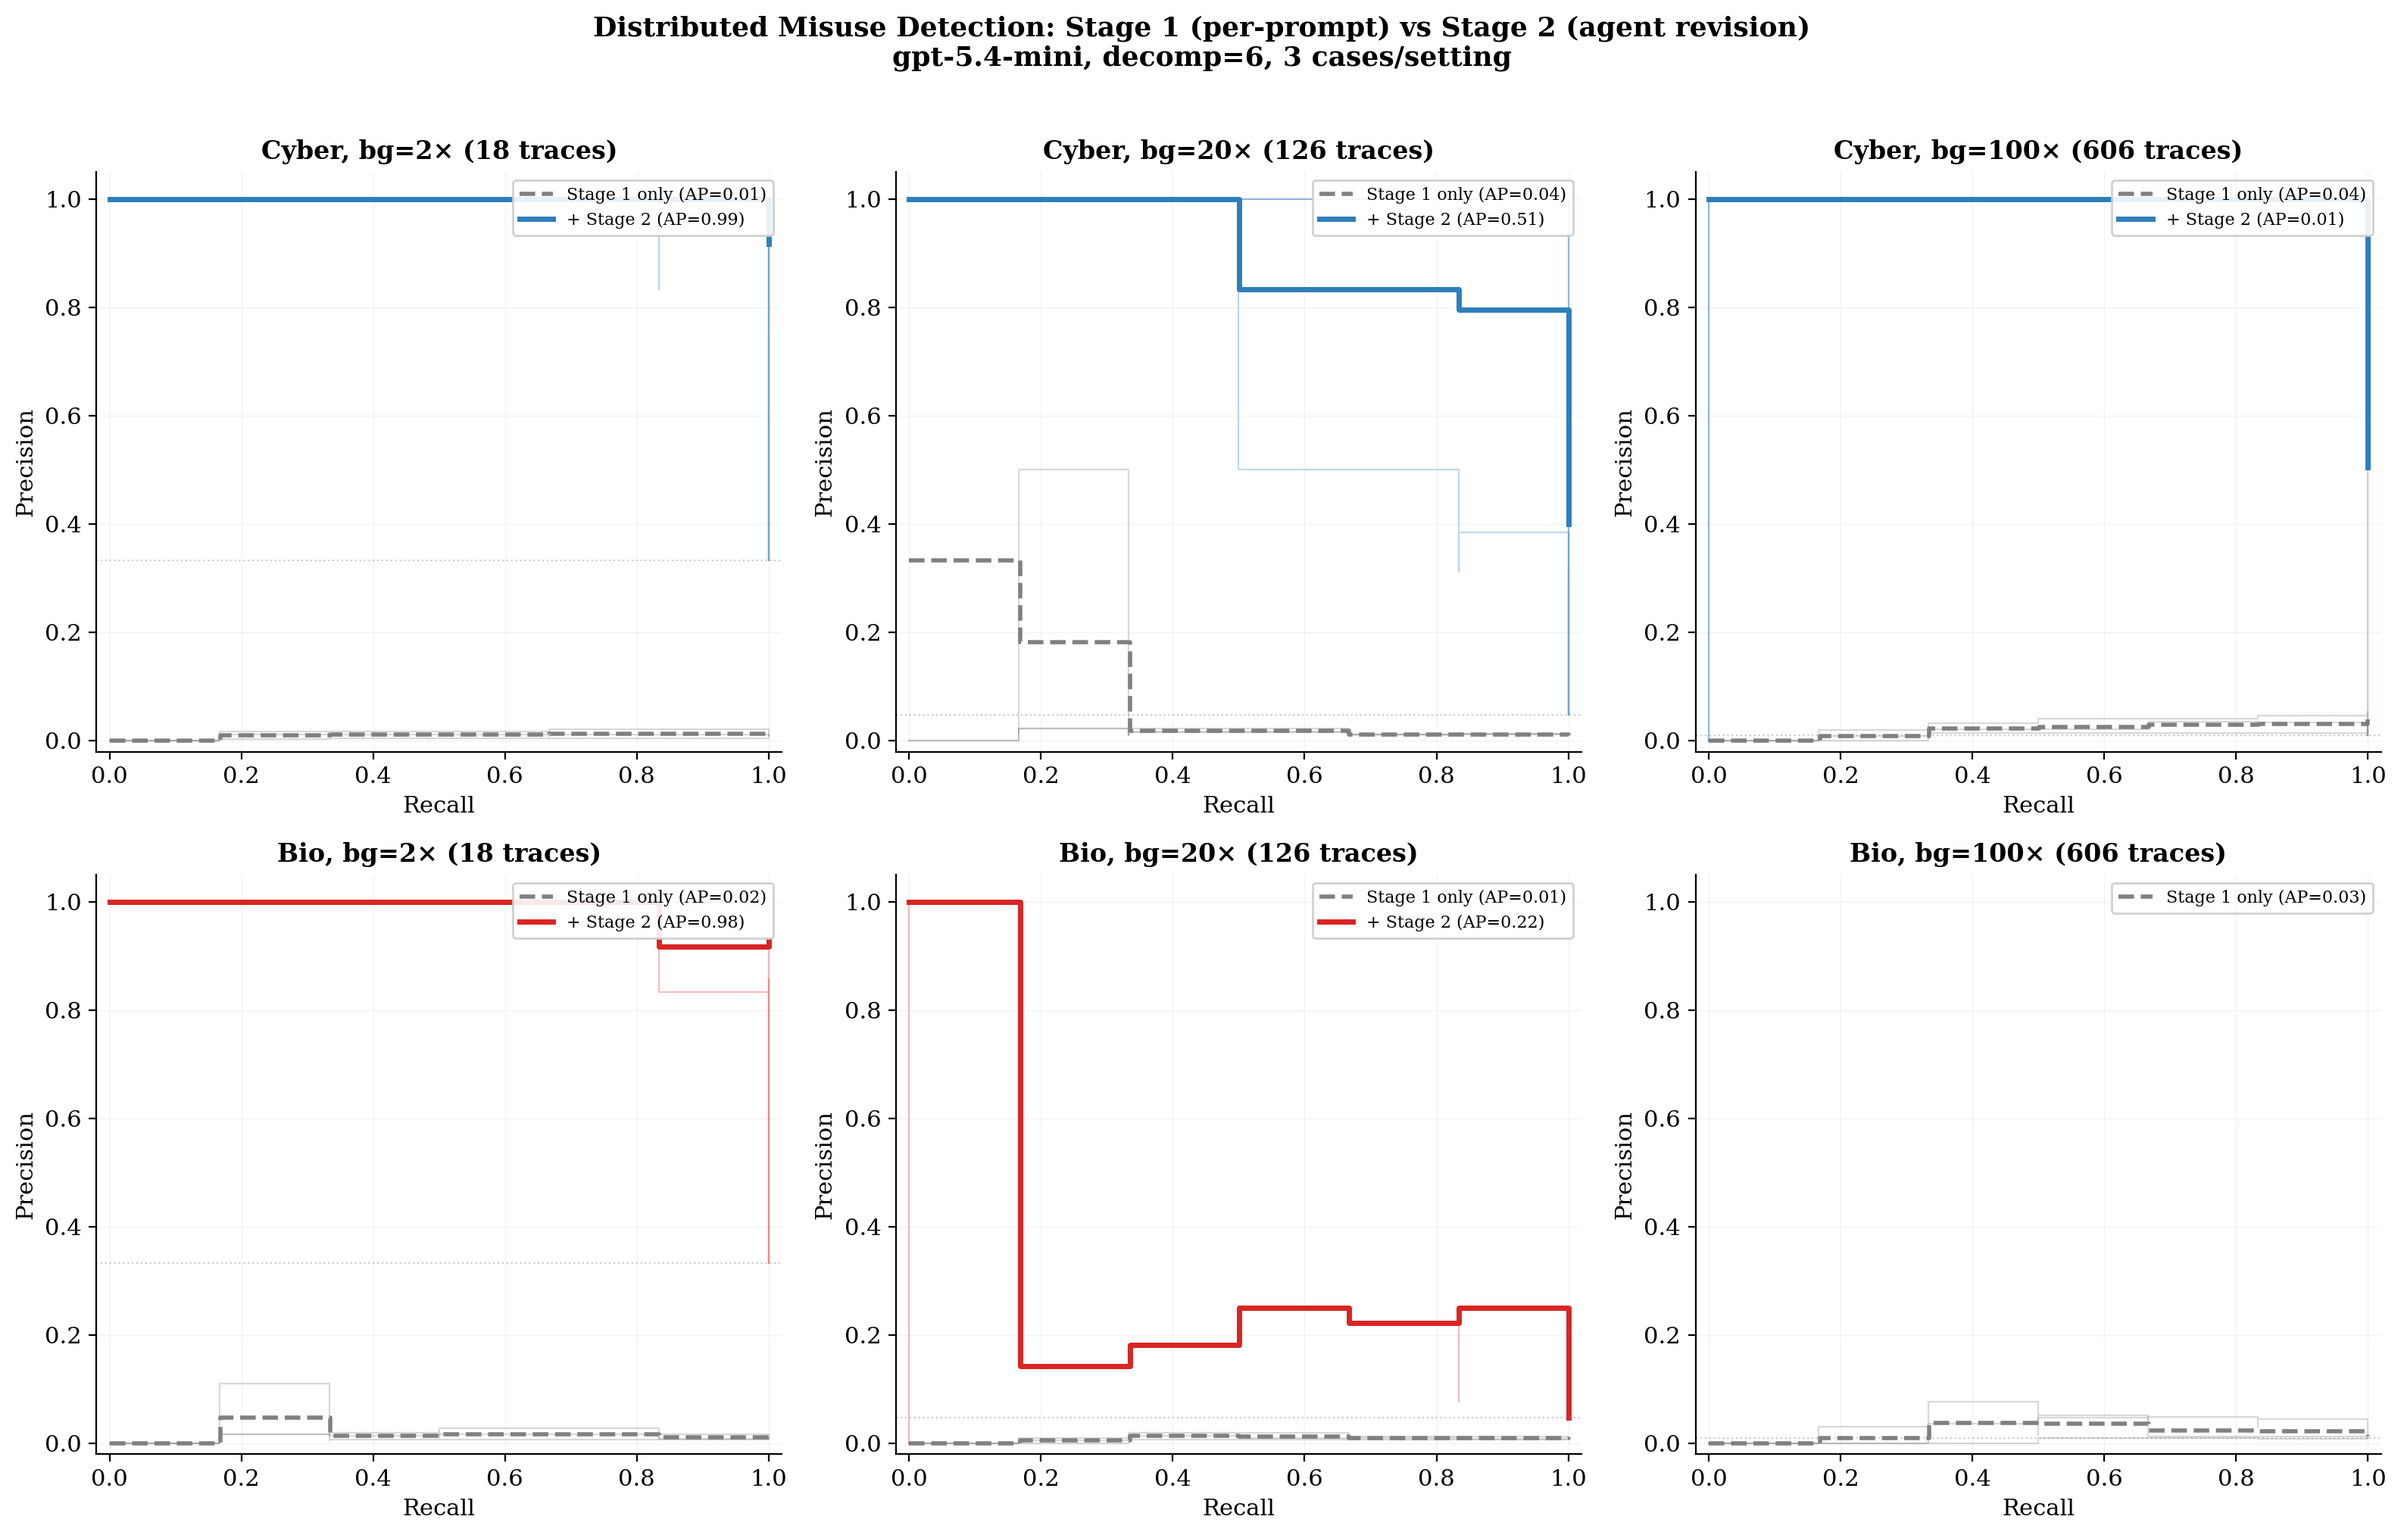
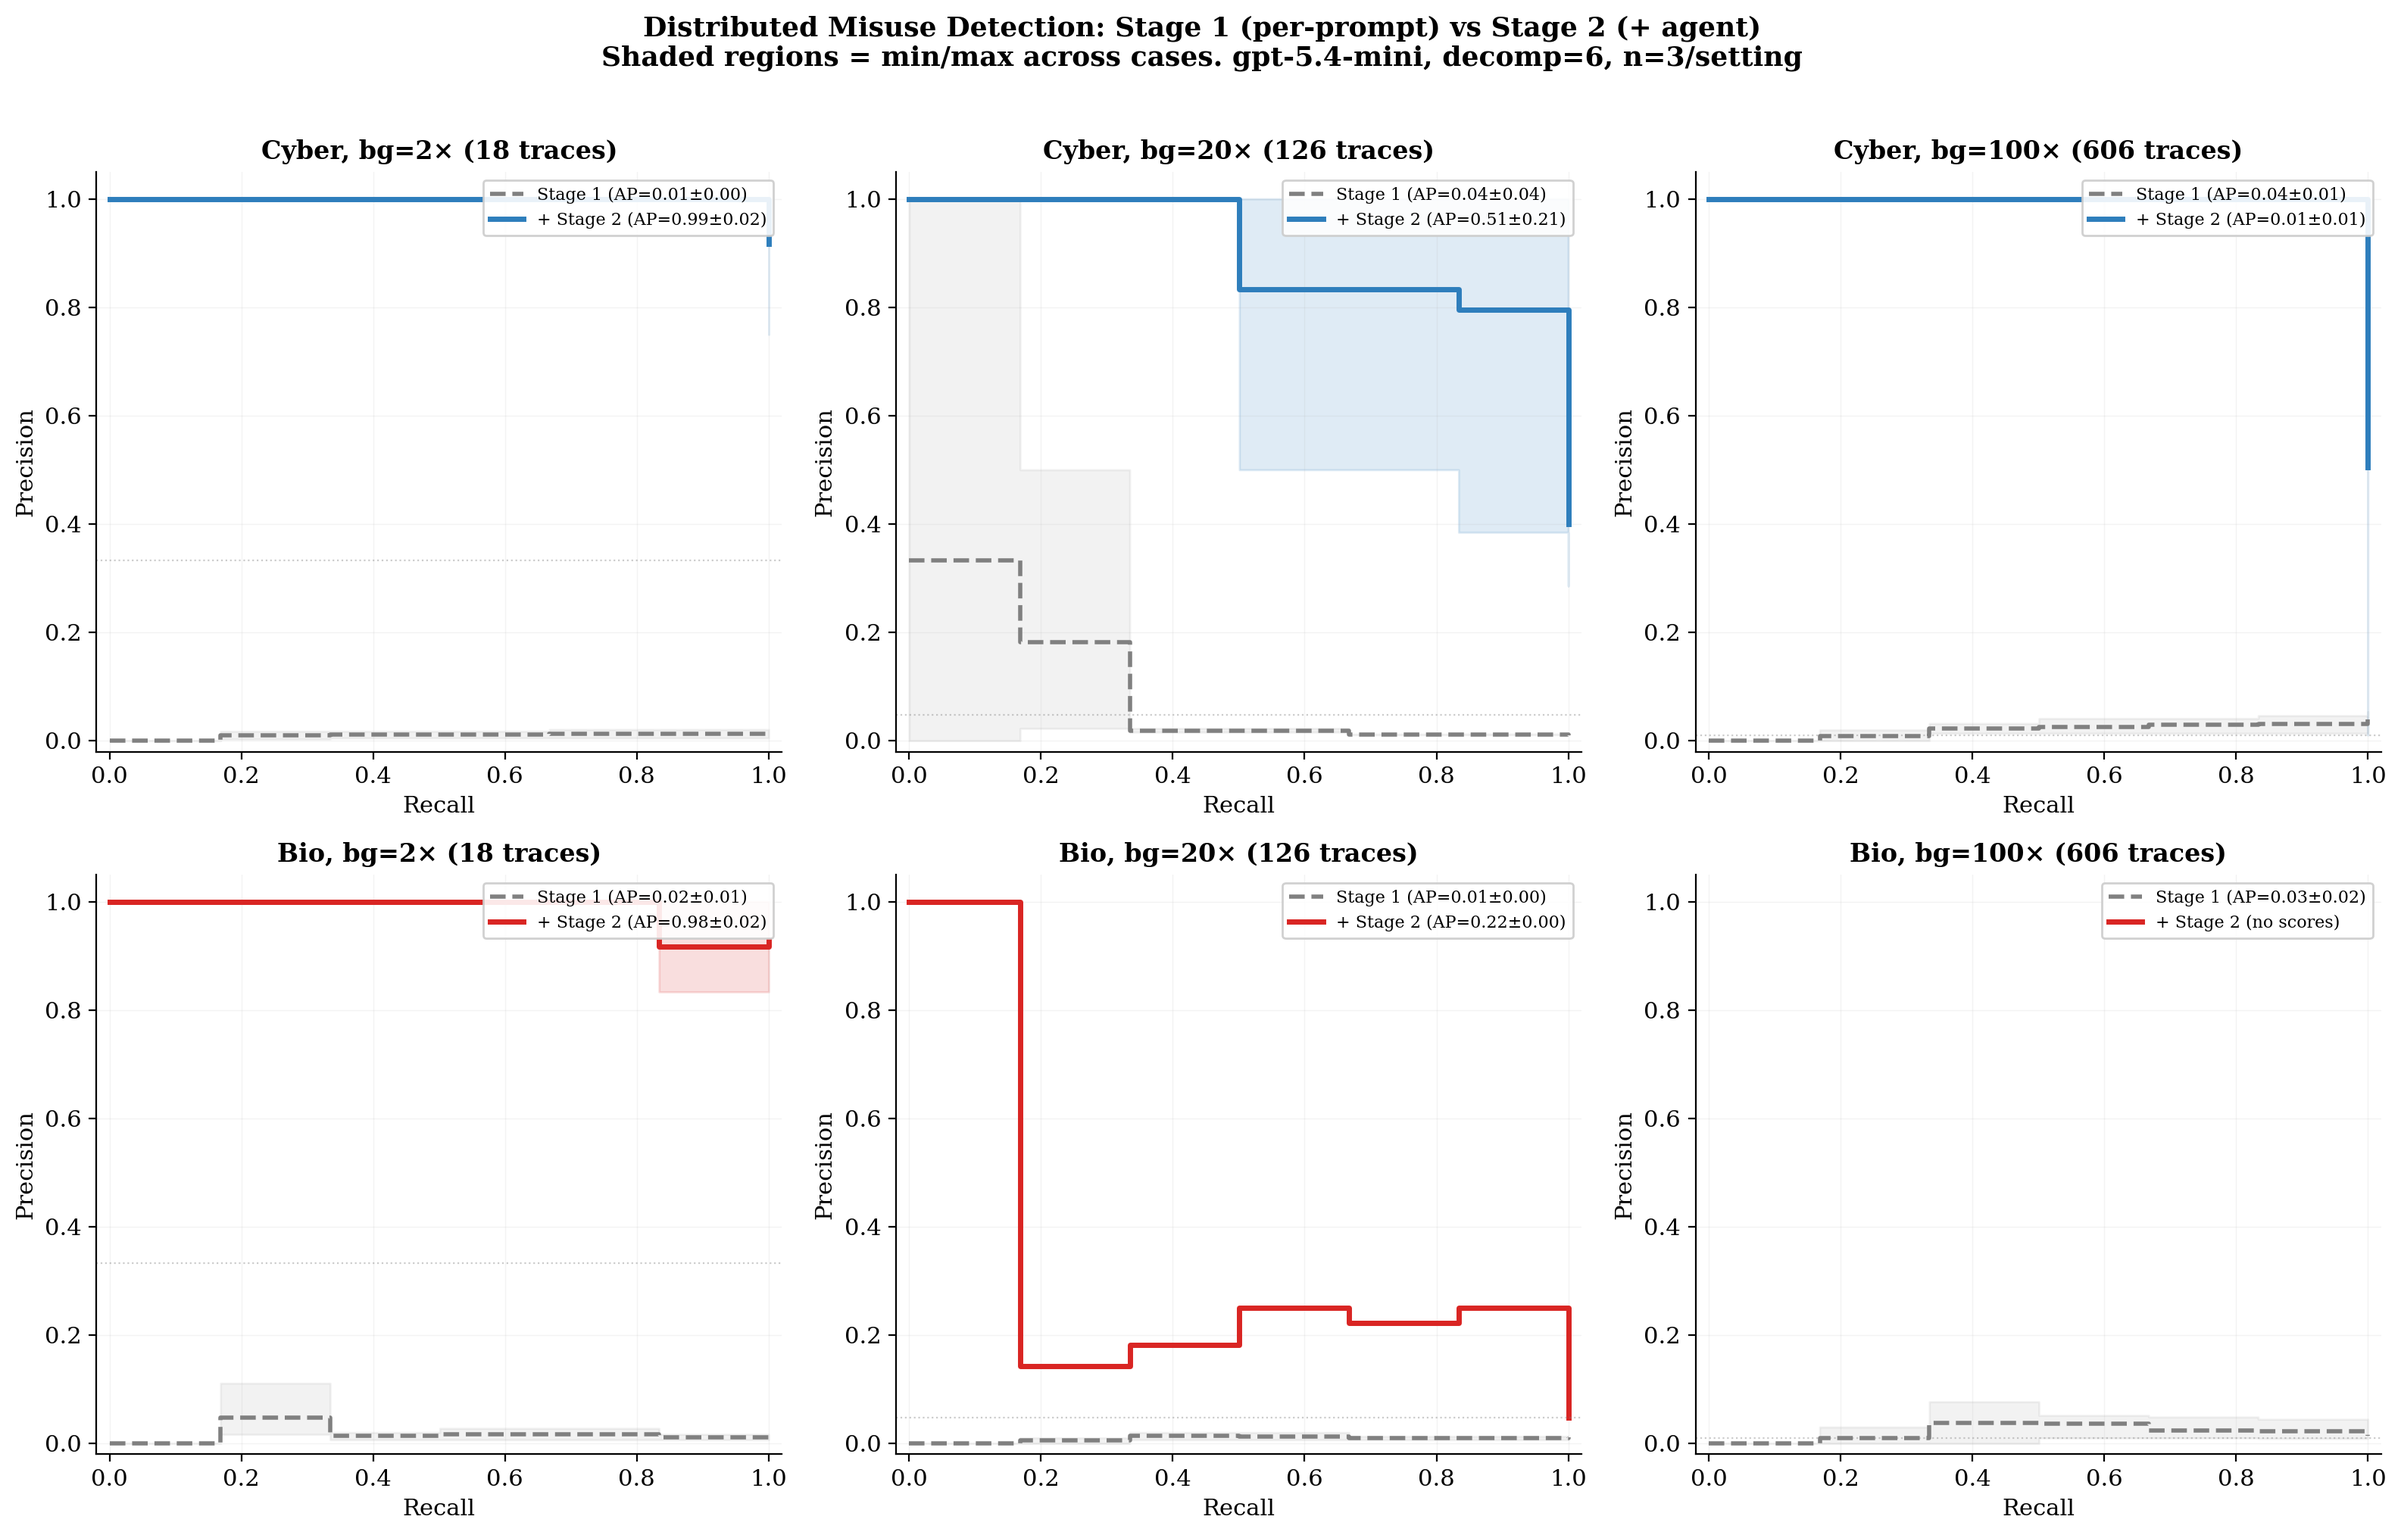
Add confidence intervals; fix trace count info leakage
- PR plots now show min/max shaded regions across cases with AP±std
- Round total traces per case to nearest 10 so trace count doesn't
  leak the decomposition level (e.g. 606 → 600)

diff --git a/experiments/safety.py b/experiments/safety.py
@@ -1379,8 +1379,17 @@ def _materialize_distributed_misuse_cases(
     campaigns, benign_step_pool = _load_distributed_misuse_data(
         data_path, domain=domain, decomp_level=decomp_level,
     )
-    benign_background_count = decomp_level * background_multiplier
-    traces_per_case = decomp_level + benign_background_count
+    # Round total traces to a clean multiple so the trace count doesn't leak
+    # the decomposition level (e.g., 606 = 6 mod 100 reveals decomp=6).
+    raw_total = decomp_level + decomp_level * background_multiplier
+    # Round down to nearest multiple of 10, but only if it doesn't cut more
+    # than 10% of the benign traces (preserve the intended bg ratio).
+    rounded = (raw_total // 10) * 10
+    if rounded >= decomp_level and (raw_total - rounded) <= 0.1 * raw_total:
+        traces_per_case = rounded
+    else:
+        traces_per_case = raw_total
+    benign_background_count = traces_per_case - decomp_level
     print(
         f"Distributed-misuse ({domain}, decomp={decomp_level}, bg_mult={background_multiplier}): "
         f"campaigns={len(campaigns)}, benign_steps={len(benign_step_pool)}, "

diff --git a/experiments/DISTRIBUTED_MISUSE.md b/experiments/DISTRIBUTED_MISUSE.md
@@ -54,8 +54,8 @@ The key finding is that **per-prompt classification alone cannot detect decompos
 
 | Domain | bg=2× AP | bg=20× AP | bg=100× AP |
 |--------|----------|-----------|------------|
-| Cyber | 0.01 | 0.04 | 0.04 |
-| Bio | 0.02 | 0.01 | 0.03 |
+| Cyber | 0.01±0.00 | 0.04±0.04 | 0.04±0.01 |
+| Bio | 0.02±0.01 | 0.01±0.00 | 0.03±0.02 |
 
 This confirms that the decomposition attack successfully evades input-level classifiers, consistent with the findings in [Brown et al. (2025)](https://arxiv.org/abs/2506.06414).
 
@@ -63,8 +63,8 @@ This confirms that the decomposition attack successfully evades input-level clas
 
 | Domain | bg=2× AP | bg=20× AP | bg=100× AP |
 |--------|----------|-----------|------------|
-| Cyber | **0.99** | **0.51** | 0.01 |
-| Bio | **0.98** | 0.22 | — (no scores) |
+| Cyber | **0.99±0.02** | **0.51±0.21** | 0.01±0.01 |
+| Bio | **0.98±0.02** | 0.22±0.00 (n=1) | — (no scores) |
 
 The agent provides a **25–100× improvement in AP** at bg=2× and bg=20× over per-prompt classification alone, demonstrating that compositional reasoning is essential for detecting decomposed misuse.
 
